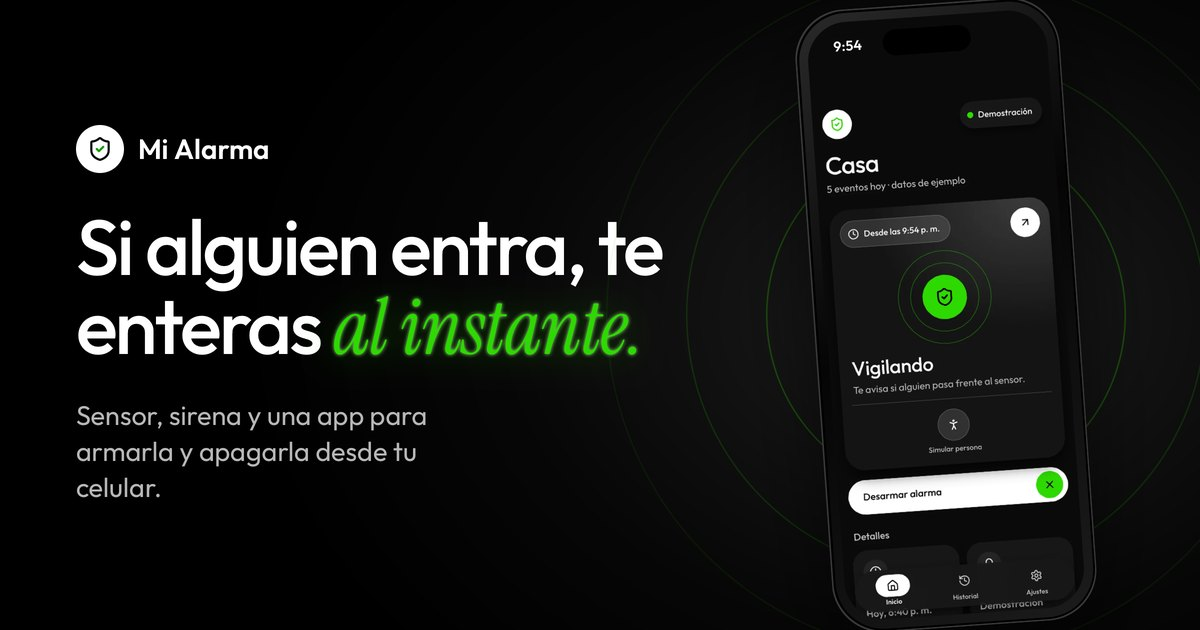
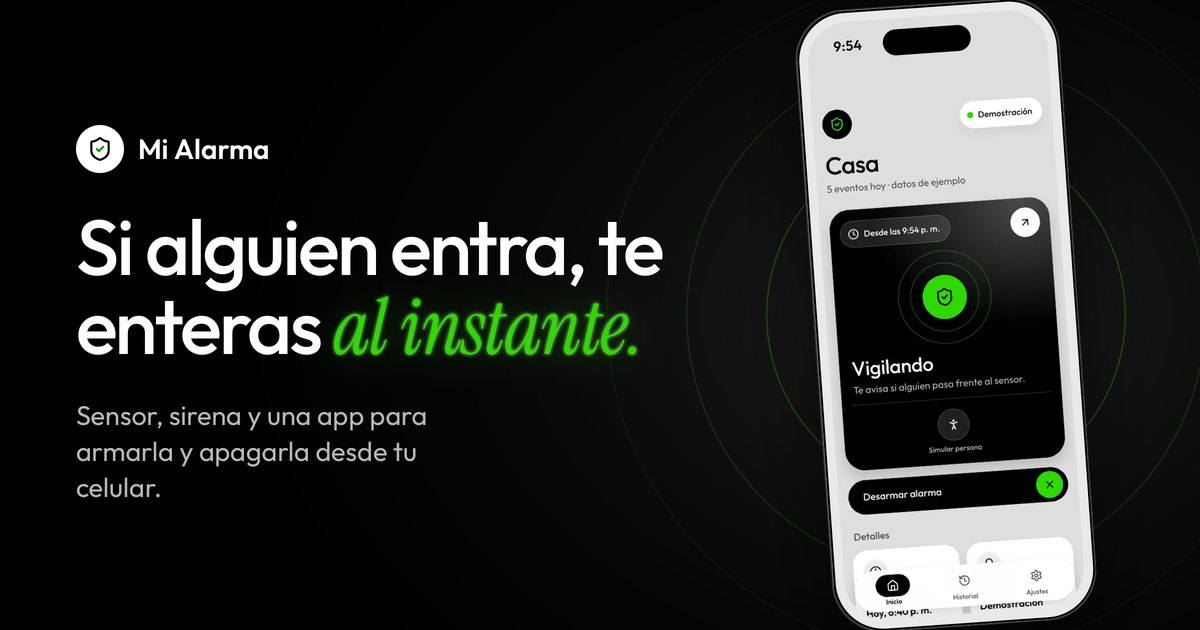
Landing: el teléfono del inicio con el mismo marco claro de «La app», sin la pill que cambiaba de texto

Changed region(s): [[0.6475, 0.0, 0.925, 1.0]]

diff --git a/estilos.css b/estilos.css
@@ -85,7 +85,7 @@ a { color: inherit; }
 .confianza .ic { width: 18px; height: 18px; color: var(--verde); }
 
 /* el teléfono con la app de verdad */
-.escena { position: relative; display: grid; place-items: center; min-height: 600px; padding-bottom: 60px; perspective: 1400px; }
+.escena { position: relative; display: grid; place-items: center; min-height: 600px; perspective: 1400px; }
 .radar { position: absolute; inset: 50% auto auto 50%; width: 0; height: 0; }
 .radar span { position: absolute; left: 50%; top: 50%; border-radius: 50%; border: 1.5px solid rgba(46, 217, 1, .28); transform: translate(-50%, -50%); transition: border-color .6s; }
 .radar span:nth-child(1) { width: 380px; height: 380px; } .radar span:nth-child(2) { width: 540px; height: 540px; border-color: rgba(46, 217, 1, .16); } .radar span:nth-child(3) { width: 700px; height: 700px; border-color: rgba(46, 217, 1, .08); }
@@ -96,11 +96,11 @@ a { color: inherit; }
 .escena.alarma .resplandor { opacity: 1; }
 .resplandor { position: absolute; width: 520px; height: 520px; border-radius: 50%; background: radial-gradient(circle, rgba(217, 42, 33, .45), transparent 65%); opacity: 0; transition: opacity .5s; filter: blur(10px); }
 /* marco: 11 px de borde + la pantalla de la app (390×844) + una franja de 44 para la hora y la isla */
-.telefono { position: relative; width: min(300px, 74vw); aspect-ratio: 412 / 910; border-radius: 50px; padding: 11px; background: linear-gradient(145deg, #2a2a2a, #050505 45%, #1c1c1c);
+.telefono { position: relative; width: min(300px, 74vw); aspect-ratio: 412 / 910; border-radius: 50px; padding: 11px; background: #e9e9e9;
   box-shadow: 0 0 0 1.5px #3a3a3a, 0 40px 90px rgba(0, 0, 0, .6), inset 0 0 0 2px #000; transform-style: preserve-3d; transition: transform .8s var(--sale); }
 .telefono::after { content: ""; position: absolute; top: 22px; left: 50%; width: 88px; height: 26px; margin-left: -44px; border-radius: var(--pildora); background: #000; z-index: 3; }
-.pantalla { position: relative; height: 100%; border-radius: 40px; overflow: hidden; background: #0a0a0a; }
-.pantalla::before { content: "9:54"; position: absolute; z-index: 2; top: 14px; left: 11%; font: 600 14px/20px var(--letra); color: #fff; letter-spacing: .01em; }
+.pantalla { position: relative; height: 100%; border-radius: 40px; overflow: hidden; background: #dedede; }
+.pantalla::before { content: "9:54"; position: absolute; z-index: 2; top: 14px; left: 11%; font: 600 14px/20px var(--letra); color: #0a0a0a; letter-spacing: .01em; }
 .pantalla img { position: absolute; inset: auto 0 0 0; width: 100%; height: auto; aspect-ratio: 390 / 844; opacity: 0; transition: opacity .45s ease, transform .6s var(--sale); transform: scale(1.02); }
 .pantalla img.activa { opacity: 1; transform: scale(1); }
 .escena.tiembla .telefono { animation: tiembla .12s linear 10; }
@@ -118,21 +118,17 @@ a { color: inherit; }
 .aviso strong { display: block; font-size: var(--t-16); font-weight: 600; margin: 2px 0; }
 .aviso p { margin: 0; font-size: var(--t-14); line-height: 1.35; color: #e4e4e4; }
 /* el dedo que toca (lo de las lecciones de interfaz: el cursor que entra, presiona y suelta) */
-.dedo { position: absolute; z-index: 6; left: 0; top: 0; width: 46px; height: 46px; margin: -23px; border-radius: 50%; background: rgba(255, 255, 255, .85);
-  box-shadow: 0 6px 18px rgba(0, 0, 0, .45), inset 0 0 0 2px rgba(0, 0, 0, .08); opacity: 0; transition: opacity .3s, left .9s var(--sale), top .9s var(--sale), transform .18s; pointer-events: none; }
+.dedo { position: absolute; z-index: 6; left: 0; top: 0; width: 46px; height: 46px; margin: -23px; border-radius: 50%; background: rgba(20, 20, 20, .3);
+  box-shadow: 0 0 0 2px rgba(255, 255, 255, .95), 0 6px 18px rgba(0, 0, 0, .35); opacity: 0; transition: opacity .3s, left .9s var(--sale), top .9s var(--sale), transform .18s; pointer-events: none; }
 .dedo.visible { opacity: 1; }
 .dedo.toca { transform: scale(.72); }
-.dedo::after { content: ""; position: absolute; inset: -10px; border-radius: 50%; border: 2px solid rgba(255, 255, 255, .8); opacity: 0; }
+.dedo::after { content: ""; position: absolute; inset: -10px; border-radius: 50%; border: 2px solid rgba(20, 20, 20, .45); opacity: 0; }
 .dedo.toca::after { animation: anillo .55s var(--sale); }
 @keyframes anillo { from { opacity: 1; transform: scale(.6); } to { opacity: 0; transform: scale(1.6); } }
-.rotulo-escena { position: absolute; bottom: 0; left: 50%; translate: -50% 0; display: inline-flex; align-items: center; gap: 8px; min-height: 36px; padding: 0 16px; border-radius: var(--pildora);
   font-size: var(--t-14); font-weight: 500; background: rgba(255, 255, 255, .08); border: 1px solid rgba(255, 255, 255, .14); white-space: nowrap; }
-.rotulo-escena .punto { transition: background .4s; }
 /* desarmada: el radar se apaga, como en la app */
 .escena.desarmada .radar span { border-color: rgba(255, 255, 255, .07); }
 .escena.desarmada .radar .onda { opacity: 0; }
-.escena.desarmada .rotulo-escena .punto { background: #9a9a9a; box-shadow: none; animation: none; }
-.escena.alarma .rotulo-escena .punto { background: var(--rojo-brillo); box-shadow: 0 0 0 4px rgba(242, 100, 91, .25); }
 
 /* ── Datos ── */
 .datos { background: var(--superficie); }
@@ -169,16 +165,12 @@ section[id], #demo { scroll-margin-top: 96px; }
   .recorrido { grid-template-columns: minmax(0, 1fr) minmax(0, 1fr); gap: var(--e-16); }
   .recorrido-fijo { display: block; position: sticky; top: 14vh; height: 72vh; }
   .recorrido-fijo .telefono { width: auto; height: 100%; margin: 0 auto; }
-  .recorrido-fijo .telefono { background: #e9e9e9; }
   .momento .telefono { display: none; }
 }
 .momento { min-height: auto; display: grid; gap: var(--e-6); align-content: center; }
 @media (min-width: 980px) { .momento { min-height: 78vh; } }
-.momento .telefono { width: min(280px, 72vw); margin: 0 auto; background: linear-gradient(145deg, #2a2a2a, #050505 45%, #1c1c1c); }
+.momento .telefono { width: min(280px, 72vw); margin: 0 auto; }
 .momento .telefono .pantalla img { opacity: 1; transform: none; }
-/* las capturas claras: la franja de arriba del mismo gris que la app */
-.recorrido .pantalla { background: #dedede; }
-.recorrido .pantalla::before { color: #0a0a0a; }
 .momento-chip { display: inline-flex; align-self: start; justify-self: start; align-items: center; gap: 8px; min-height: 32px; padding: 0 14px; border-radius: var(--pildora); background: var(--negro); color: var(--sobre-negro); font-size: var(--t-14); font-weight: 500; }
 .momento-chip .punto.rojo { background: var(--rojo-brillo); box-shadow: 0 0 0 4px rgba(242, 100, 91, .25); }
 .momento-chip .punto.gris { background: #9a9a9a; box-shadow: none; animation: none; }

diff --git a/index.html b/index.html
@@ -18,7 +18,7 @@
 <link rel="apple-touch-icon" href="apple-touch-icon.png">
 <link rel="preload" href="fuentes/outfit.woff2" as="font" type="font/woff2" crossorigin>
 <link rel="preload" href="fuentes/instrument-serif-italic.woff2" as="font" type="font/woff2" crossorigin>
-<link rel="stylesheet" href="estilos.css">
+<link rel="stylesheet" href="estilos.css?v=6">
 <script>document.documentElement.classList.add('js')</script>
 </head>
 <body>
@@ -76,9 +76,9 @@
         <div class="radar" aria-hidden="true"><span></span><span></span><span></span><span class="onda"></span></div>
         <div class="telefono" id="telefono-heroe">
           <div class="pantalla">
-            <img class="activa" data-p="vigilando" src="capturas/vigilando-oscuro.webp" alt="La app en estado Vigilando, con el radar verde" width="390" height="844">
-            <img data-p="alarma" src="capturas/alarma-oscuro.webp" alt="La app en rojo: ¡Movimiento detectado! La sirena está sonando" width="390" height="844" loading="lazy">
-            <img data-p="desarmada" src="capturas/desarmada-oscuro.webp" alt="La app con la alarma desarmada" width="390" height="844" loading="lazy">
+            <img class="activa" data-p="vigilando" src="capturas/vigilando-claro.webp" alt="La app en estado Vigilando, con el radar verde" width="390" height="844">
+            <img data-p="alarma" src="capturas/alarma-claro.webp" alt="La app en rojo: ¡Movimiento detectado! La sirena está sonando" width="390" height="844" loading="lazy">
+            <img data-p="desarmada" src="capturas/desarmada-claro.webp" alt="La app con la alarma desarmada" width="390" height="844" loading="lazy">
           </div>
         </div>
         <div class="aviso" id="aviso-heroe" role="presentation">
@@ -86,7 +86,6 @@
           <span><small><span>Mi Alarma</span><span>ahora</span></small><strong>⚠ ¡Alerta de tu alarma!</strong><p>Detectó movimiento. Toca para ver qué pasó y apagarla.</p></span>
         </div>
         <div class="dedo" id="dedo" aria-hidden="true"></div>
-        <span class="rotulo-escena" aria-live="off"><span class="punto"></span><span id="rotulo-escena">Vigilando la casa</span></span>
       </div>
     </div>
   </section>
@@ -342,6 +341,6 @@
 </main>
 
 <script src="vendor/qrcode.min.js" defer></script>
-<script src="landing.js" defer></script>
+<script src="landing.js?v=6" defer></script>
 </body>
 </html>

diff --git a/landing.js b/landing.js
@@ -206,14 +206,12 @@
     const pantallas = $$('.pantalla img', escena);
     const aviso = $('#aviso-heroe');
     const dedo = $('#dedo');
-    const rotulo = $('#rotulo-escena');
     // Dónde están los botones en las capturas (fracción del ancho y del alto de la captura)
     const BOTON = { apagar: [0.88, 0.685], armar: [0.88, 0.762] };
     let enPantalla = true;
     new IntersectionObserver(([e]) => { enPantalla = e.isIntersecting; }).observe(escena);
 
     const mostrar = (nombre) => pantallas.forEach((img) => img.classList.toggle('activa', img.dataset.p === nombre));
-    const decir = (texto) => { rotulo.textContent = texto; };
     const turno = async (ms) => {
       await espera(ms);
       while (!enPantalla || document.hidden) await espera(400);
@@ -254,7 +252,6 @@
         // Alguien entra
         escena.classList.add('alarma', 'tiembla');
         mostrar('alarma');
-        decir('¡Alguien entró!');
         await espera(350);
         aviso.classList.add('visible');
         await espera(1000);
@@ -266,14 +263,12 @@
         escena.classList.add('desarmada');
         aviso.classList.remove('visible');
         mostrar('desarmada');
-        decir('La apagaste desde el celular');
         await soltar();
         await turno(2200);
         // La vuelves a armar
         await tocar(BOTON.armar);
         escena.classList.remove('desarmada');
         mostrar('vigilando');
-        decir('Vigilando la casa');
         await soltar();
       }
     })();
